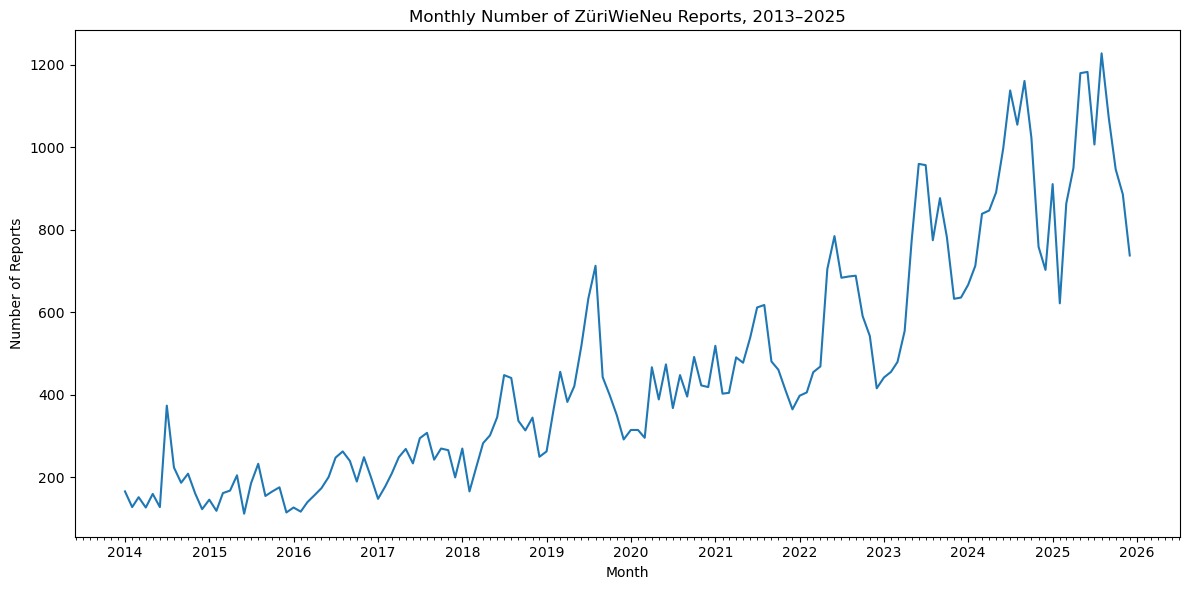
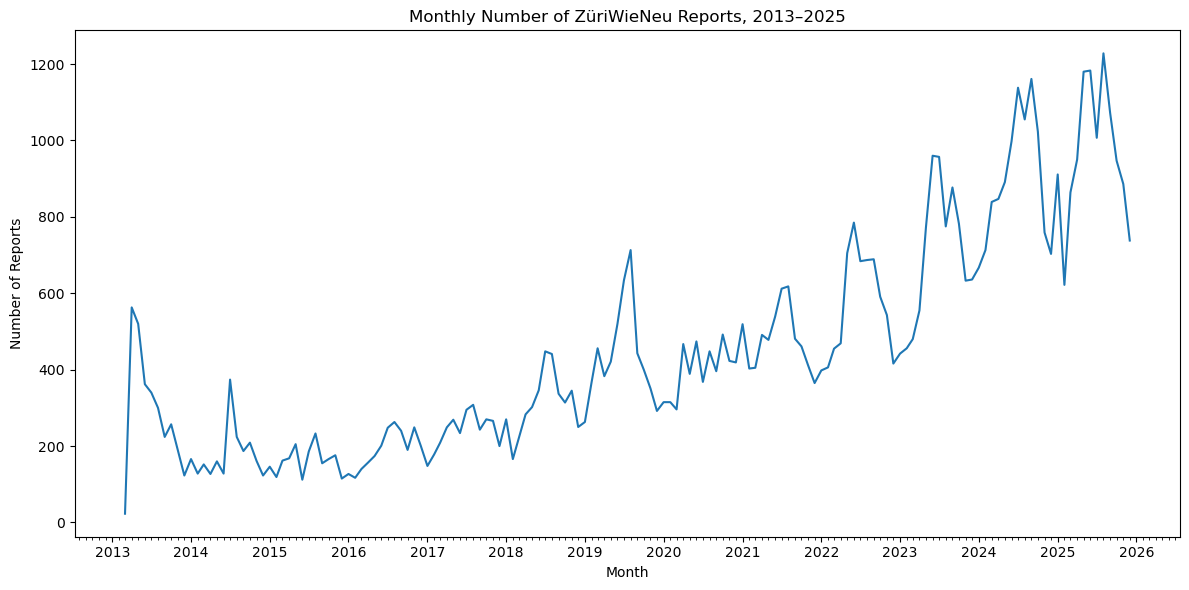
updated README.md in more detail

diff --git a/README.md b/README.md
@@ -8,7 +8,7 @@ ZüriWieNeu allows residents to report problems in public space, such as waste a
 
 The goal of this project is to build a clear and reproducible data workflow that reads, cleans, structures, analyses, and visualizes the ZüriWieNeu data. The analysis combines temporal, categorical, and spatial perspectives.
 
-The project first works with a downloaded CSV file. The code is structured so that it could later be extended to use the ZüriWieNeu Open311 API.
+The project works with the CSV file available from the City of Zurich in addition to Quartier Information and population counts. 
 
 ---
 
@@ -20,7 +20,7 @@ The project is organized around four research questions.
 
 **How has the number of ZüriWieNeu reports changed over time?**
 
-This question analyses yearly and monthly reporting trends between 2013 and 2025.
+This question analyses yearly and monthly reporting trends between 2013 and 2025. 
 
 ### Research Question 2
 
@@ -32,13 +32,18 @@ This question examines how different report categories developed over time, usin
 
 **Which Zurich Quartiere had the highest number of ZüriWieNeu reports in 2025?**
 
-This question introduces spatial analysis by assigning individual report points to Zurich Quartier polygons and mapping report counts by neighbourhood.
+This question introduces spatial analysis by assigning individual report points to Zurich Quartier polygons and comparing reporting intensity across neighbourhoods using two normalised rates:
+
+- reports per 1'000 residents: using population data from the City of Zurich
+- reports per km^2: using the Quartier area computed from the shapefile geometry
 
 ### Research Question 4
 
-**Are certain types of ZüriWieNeu reports concentrated in particular Zurich Quartiere in 2025?**
+**Are certain types of ZüriWieNeu reports concentrated in particular Zurich Quartiere in 2025, and within the dominant category, where exactly in the city do these reports cluster?**
 
-This question analyses whether specific report categories, especially **Abfall/Sammelstelle**, are spatially concentrated in certain Quartiere.
+This question analyses whether specific report categories, especially **Abfall/Sammelstelle**, are spatially concentrated in certain Quartiere. The analysis is done in two stages: 
+1. A Quartier-level choropleth of the share of **Abfall/Sammelstelle** reports within each Quartier
+2. A **Kerndel Density Estimation (KDE)** on the point locations of all **Abfall/Sammelstelle** reports in 2025, revealing where within the city these reports cluster independently of administrative boundaries
 
 ---
 
@@ -63,8 +68,7 @@ SDS210_IndividualProject/
   - 04_R4.ipynb
 
 - output/
-  - figures/
-    - saved visualizations
+  - saved visualizations (PNG files)
 
 - src/
   - __init__.py
@@ -105,7 +109,11 @@ The spatial data uses the coordinate reference system:
 
 **EPSG:2056 — CH1903+ / LV95**
 
-This matches the coordinate columns `e` and `n` in the ZüriWieNeu dataset.
+This matches the coordinate columns `e` and `n` in the ZüriWieNeu dataset. 
+
+### Population Data
+
+For the research question 3, the project uses the Open Data Zürich dataset *Bevölkerung nach Stadtquartier* (`bev324od3240.csv`), which contains the economically resident population (ÀnzBestWir) per statistical Quartier (`QuarLang`) and year (`StichtagDatJahr`). The data is filtered specifically to the year 2025 to fit the analysis for allowing the calculation of reports per 1'000 residents in the Quartier. 
 
 ---
 
@@ -123,9 +131,10 @@ The cleaning workflow is implemented in `src/cleaning.py`.
 
 The main cleaning steps are:
 
-1. Convert date columns to datetime format.
-2. Remove duplicate reports based on `service_request_id`.
-3. Add time-based columns:
+1. Convert date columns to datetime format (`requested_datetime`, `agency_sent_datetime`, `updated_datetime`). 
+2. Remove duplicate reports based on `service_request_id`. On the current export this finds 0 duplicates, but the step is done to ensure the correct amount of report counts. 
+3. Drop the `service_code` column, but only if it is identical to `service_name`. Right now, the information in both columns is the same, so keeping both columns would be redundant. 
+4. Add time-based columns:
    - `year`
    - `month`
    - `year_month`
@@ -138,27 +147,33 @@ This ensures that the same cleaning logic is applied consistently across all not
 
 ### 3. Temporal Analysis
 
-Temporal analysis is used for Research Questions 1 and 2.
+Temporal analysis is used for Research Questions 1 and 2 and is implemented in `src/analysis.py`.
 
 The project calculates:
 
-- yearly report counts
-- monthly report counts
-- report counts by year and category
-- category shares by year
+- yearly report counts (`count_reports_per_year`)
+- monthly report counts (`count_reports_per_month`)
+- report counts by year and category (`count_reports_by_year_and_category`)
+- category shares by year (derived from the year-and-category counts in the notebook)
 
 ### 4. Spatial Analysis
 
-Spatial analysis is used for Research Questions 3 and 4.
+Spatial analysis is used for Research Questions 3 and 4 and is implemented in `src/spatial.py`.
 
-The report data is converted into a GeoDataFrame using the coordinate columns `e` and `n`. Each report is then spatially joined to a Zurich Quartier polygon.
+The report data is converted into a GeoDataFrame using the coordinate columns `e` and `n` (through `reports_to_geodataframe`). Each report is then spatially joined to a Zurich Quartier polygon (with the function `join_reports_to_quartiere`).
 
 This allows the project to calculate:
 
 - total reports per Quartier
-- report categories per Quartier
-- dominant categories by Quartier
-- category shares within each Quartier
+- reports per 1'000 residents per Quartier (Notebook 03)
+- reports per km^2 per Quartier, with the Quartier area computed from the shapefile geometry (Notebook 03)
+- report categories per Quartier (Notebook 04)
+- dominant categories by Quartier (Notebook 04)
+- category shares within each Quartier (Notebook 04)
+
+### Kernel Density Estimation (KDE)
+
+In notebook 4, to identify clusters of the point data showing **Abfall/Sammelstelle** data in 2025, a KDE was done. The `bw_adjust` parameter allows to control the bandwidth, to ensure that there is a balance between local clusters and city-wide pattern. In this analysis, the value of `0.5` was chosen after comparing results from three different bandwidths (`0.3`, `0.5`, `1`). 
 
 ---
 
@@ -166,13 +181,13 @@ This allows the project to calculate:
 
 ### Reporting Volume Over Time
 
-The number of ZüriWieNeu reports increased strongly between 2013 and 2025. After a decline between 2013 and 2015, reporting activity began to rise again from 2016 onward. The increase became especially strong after 2018.
+The number of ZüriWieNeu reports increased strongly between 2013 and 2025. After a decline between 2013 and 2015, reporting activity began to rise again from 2016 onward. The increase became especially strong after 2018. There were 3'724 reports in 2018 and 11'588 reports in 2025. 
 
 The highest full-year report count occurred in 2025, with **11,588 reports**.
 
 ### Category Development Over Time
 
-The most common report category across the full period was **Abfall/Sammelstelle**.
+Over the time of the ZüriWieNeu platform, there have been changes in the categories to report to, with 6 categories initially available and additional four being added over time. The most common report category across the full period was **Abfall/Sammelstelle**.
 
 Other important categories included:
 
@@ -181,27 +196,21 @@ Other important categories included:
 - `Grünflächen/Spielplätze`
 - `Beleuchtung/Uhren`
 
-The category analysis showed that the increase in reports was not only a general rise in total volume, but also involved changes in the composition of reported issue types.
+The 100% stacked bar chart showed that the increase in reports was not only a general rise in total volume, but also involved changes in the relative compostion of reported issues types. 
 
 ### Spatial Distribution in 2025
 
-In 2025, reporting activity was unevenly distributed across Zurich Quartiere.
+In 2025, reporting activity was unevenly distributed across Zurich Quartiere and the two normalisations gave overlapping but different pictures.
 
-The Quartiere with the highest number of reports were:
+**Reports per 1'000 residents:** The map is highly polarised on the Quartiere City and Hochschulen, with both being non-residential areas. A small residential population pushes these two Quartiere, as there are many reports documented. 
 
-1. Langstrasse
-2. Sihlfeld
-3. Altstetten
-4. Wipkingen
-5. Unterstrass
+**Reports per km^2:** A more gradual pattern can be identified, with a clear peak around Langstrase and high values in Lindenhof, Rathaus and City. 
 
-Langstrasse had the highest number of reports, with **1,200 reports** in 2025.
+In both choropleth maps, it becomes visible how there is a concentration of reports in the centre of the City of Zurich and a decrease towards the periphery of the City. There are disagreements in the two approaches, shown in more detail for *Langstrasse*. Langstrasse ranks fourth on the per-resident map, but first on the per-km^2 map. When choosing an approach, the resident one is less reliable, as not only residents of the Quartier can upload reports. 
 
 ### Category Concentration in 2025
 
-The category **Abfall/Sammelstelle** dominated the strongest Quartier-category combinations in 2025.
-
-It was the most common category in **32 out of 34 Quartiere**.
+The category `Abfall/Sammelstelle` dominated the strongest Quartier-category combinations in 2025. It was the most common category in **32 out of 34 Quartiere** and the other two Quartiere were dominated by `Signalisation/Lichtsignal`. 
 
 The highest local shares of `Abfall/Sammelstelle` reports were found in Quartiere such as:
 
@@ -211,24 +220,23 @@ The highest local shares of `Abfall/Sammelstelle` reports were found in Quartier
 - Hard
 - Alt-Wiedikon
 
-This suggests that waste and collection-point issues were especially important in the reporting patterns of these neighbourhoods.
+The Kernel Density Estimation on the point location of all 2025 Abfall/Sammelstelle reports add a finer view to the choropleth map highlighting specific clusters in the City. 
 
 ---
 
 ## Visualizations
 
-The project includes several visualizations:
+The project includes the following visualizations, all saved to the `outputs/` folder:
 
-- yearly bar chart of report counts
-- monthly time-series plot
-- stacked bar chart of report categories by year
-- 100% stacked bar chart of category shares
-- choropleth map of reports by Quartier in 2025
-- choropleth map of `Abfall/Sammelstelle` share by Quartier
-
-Saved visualizations are stored in:
-
-`outputs`
+- `R1_YearlyReport_BarChart.png` — yearly bar chart of report counts (2014–2025)
+- `R1_MonthlyNumbers.png` — monthly time-series plot of report counts
+- `R2_StackedBar_Categories.png` — stacked bar chart of report categories by year
+- `R2_ShareCategories_Stacked.png` — 100% stacked bar chart of category shares by year
+- `R3_Choropleth_ReportsPer1000.png` — choropleth of reports per 1,000 residents by Quartier in 2025
+- `R3_Choropleth_ReportsPerKm2.png` — choropleth of reports per km² by Quartier in 2025
+- `R4_Share_LargestReport_ByQuartier.png` — choropleth of the share of Abfall/Sammelstelle reports by Quartier in 2025
+- `R4_KDE_Abfall_2025.png` — Kernel Density Estimation heatmap of Abfall/Sammelstelle report points in 2025
+- `R4_KDE_Abfall_Bandwidth.png` — side-by-side KDE comparison for three bandwidth values (sensitivity check)
 
 ---
 
@@ -271,7 +279,7 @@ conda activate sds-env
 | File | Description |
 |----------------------------|-----------------------------------------------------------------|
 | `stzh.zwn_meldungen_p.csv` | ZüriWieNeu report data (Open Data Zürich)                       |
-| `bev324od3240.csv`         | Population by Quartier (Open Data Zürich, dataset BEV324OD3240) |
+| `bev324od3240.csv`         | Population by Quartier (Open Data Zürich, dataset bev324od3240) |
 | `StatQuartiere_ZH/`        | Folder containing the Zurich Quartiere shapefiles               |
 
 The filenames are hardcoded in the notebooks and must match exactly (including case).
@@ -286,7 +294,7 @@ The filenames are hardcoded in the notebooks and must match exactly (including c
 
 The first notebook prepares and explores the data. The following notebooks each answer one research question.
 
-Note: Always select sds-env as Kernel for execution of the notebooks.
+Note: Always select `sds-env` as Kernel for execution of the notebooks.
 ---
 
 ## Notes on Interpretation
@@ -301,3 +309,5 @@ A high number of reports in a Quartier may reflect actual infrastructure problem
 - land use
 - nightlife or commercial activity
 - awareness of the reporting platform
+
+This is particularly relevant for the per-resident rate in Research Question 03, where Quartiere with very small residential population but high daytime activity appear as extreme outliers. With the approach of Quartier area or the clustering of point data, this issue of residential population is reduced, but still describe a reporting behaviour rather than the underlying urban issues directly in the City of Zurich. 